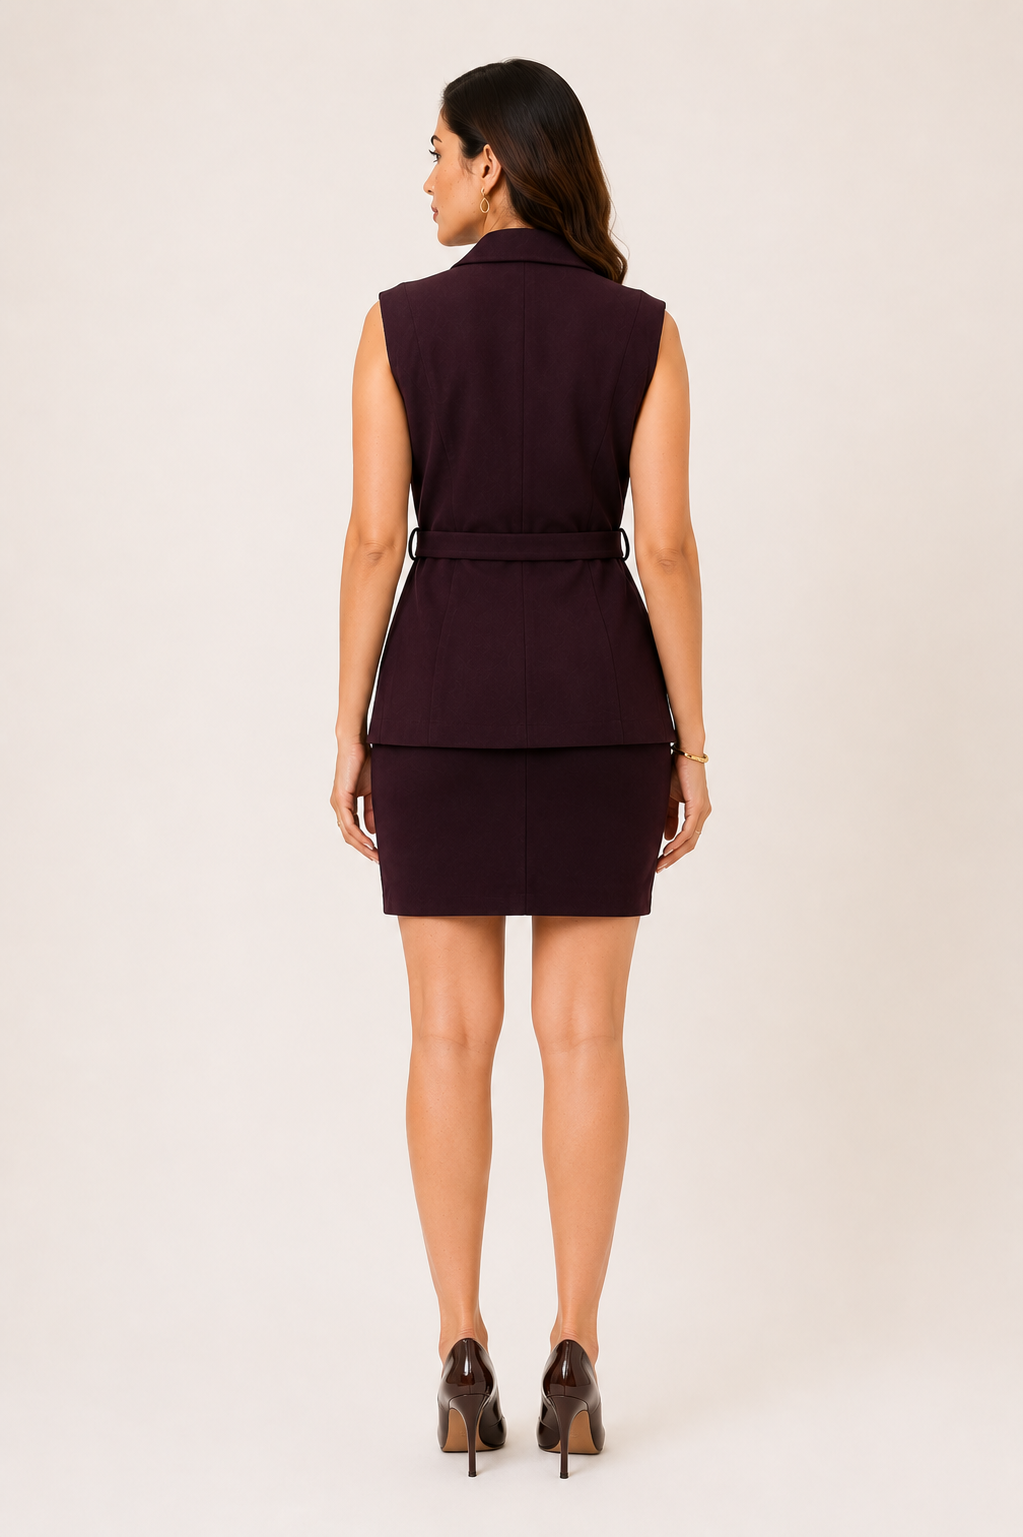
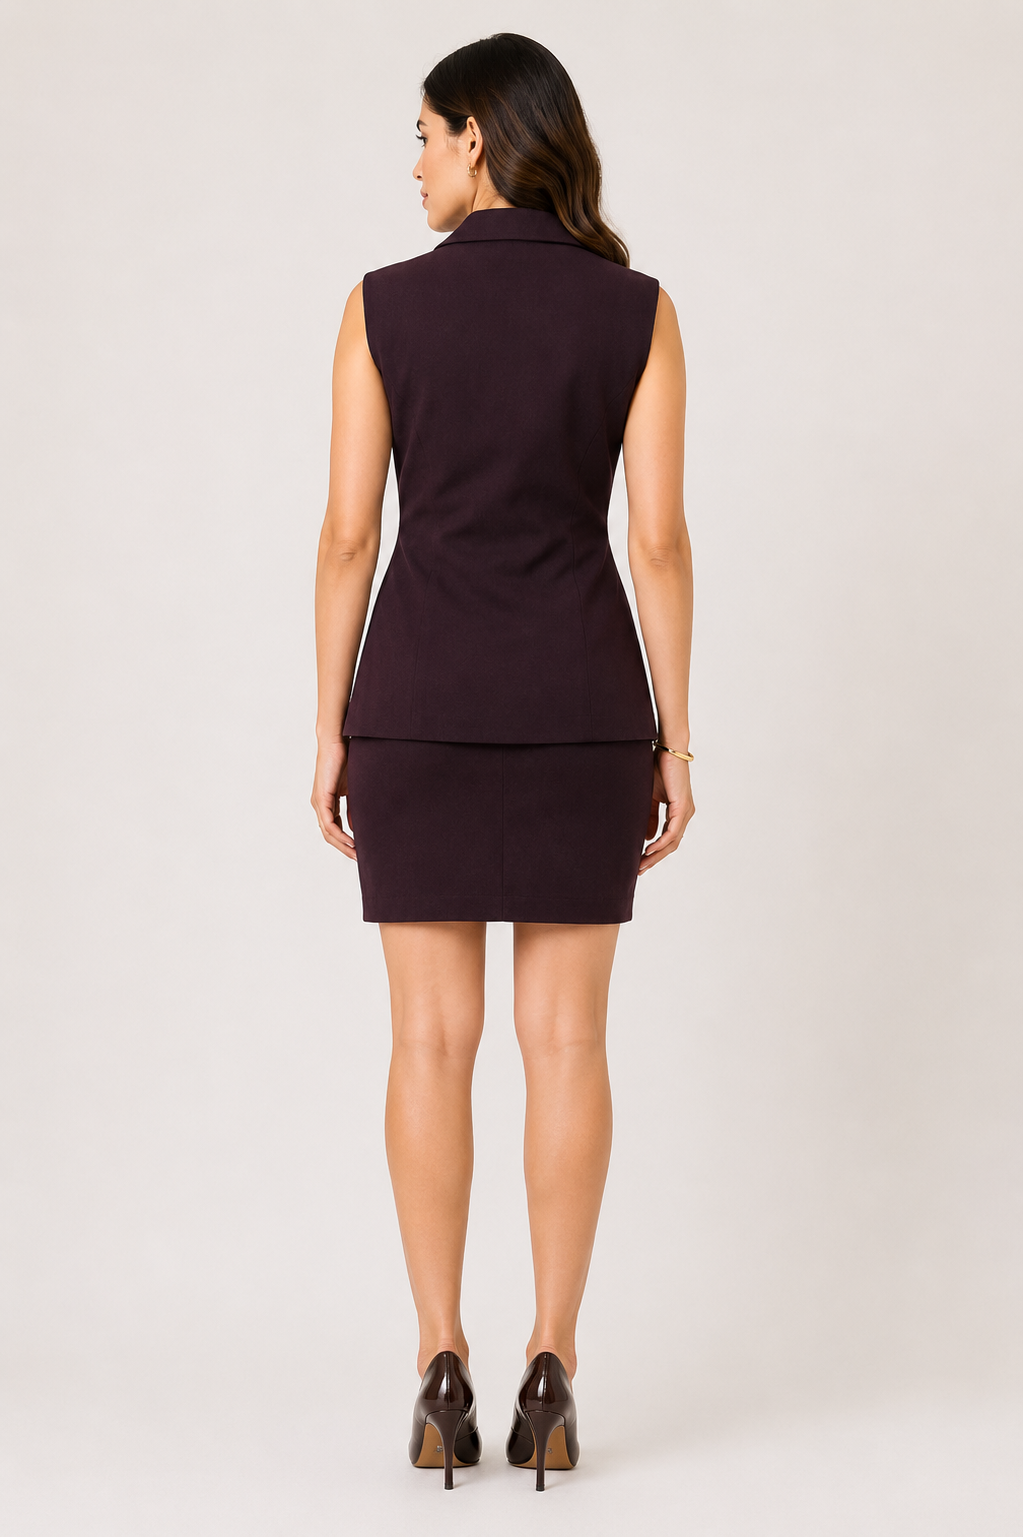
feat(catalog): add 7th image to aubergine draped vest gallery and sync database

Changed region(s): [[0.303, 0.0, 0.697, 0.9681], [0.5152, 0.4684, 0.5455, 0.4997]]

diff --git a/src/data/products.js b/src/data/products.js
@@ -108,7 +108,8 @@ export const PRODUCTS = [
       "/products/aubergine-draped-vest-mini-set/3.png",
       "/products/aubergine-draped-vest-mini-set/4.png",
       "/products/aubergine-draped-vest-mini-set/5.png",
-      "/products/aubergine-draped-vest-mini-set/6.png"
+      "/products/aubergine-draped-vest-mini-set/6.png",
+      "/products/aubergine-draped-vest-mini-set/7.png"
     ],
     badge: "New Season",
     isNew: true

diff --git a/suko-backend/src/scripts/seed-curated-9-products.js b/suko-backend/src/scripts/seed-curated-9-products.js
@@ -58,7 +58,8 @@ const CURATED_9_PRODUCTS = [
       "/products/aubergine-draped-vest-mini-set/3.png",
       "/products/aubergine-draped-vest-mini-set/4.png",
       "/products/aubergine-draped-vest-mini-set/5.png",
-      "/products/aubergine-draped-vest-mini-set/6.png"
+      "/products/aubergine-draped-vest-mini-set/6.png",
+      "/products/aubergine-draped-vest-mini-set/7.png"
     ]
   },
   {
